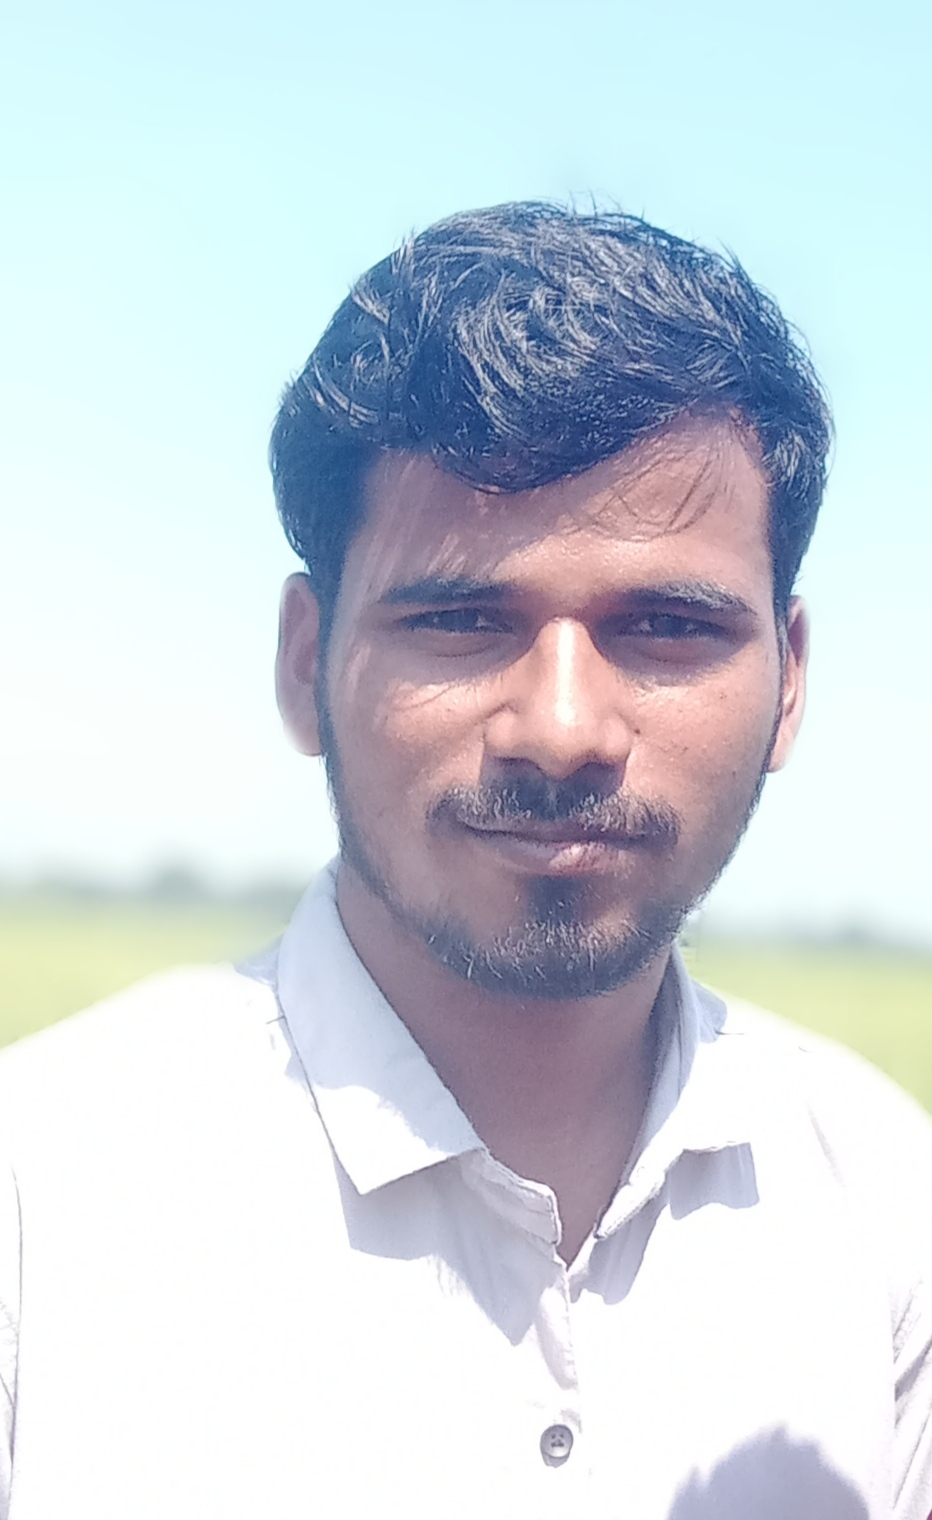
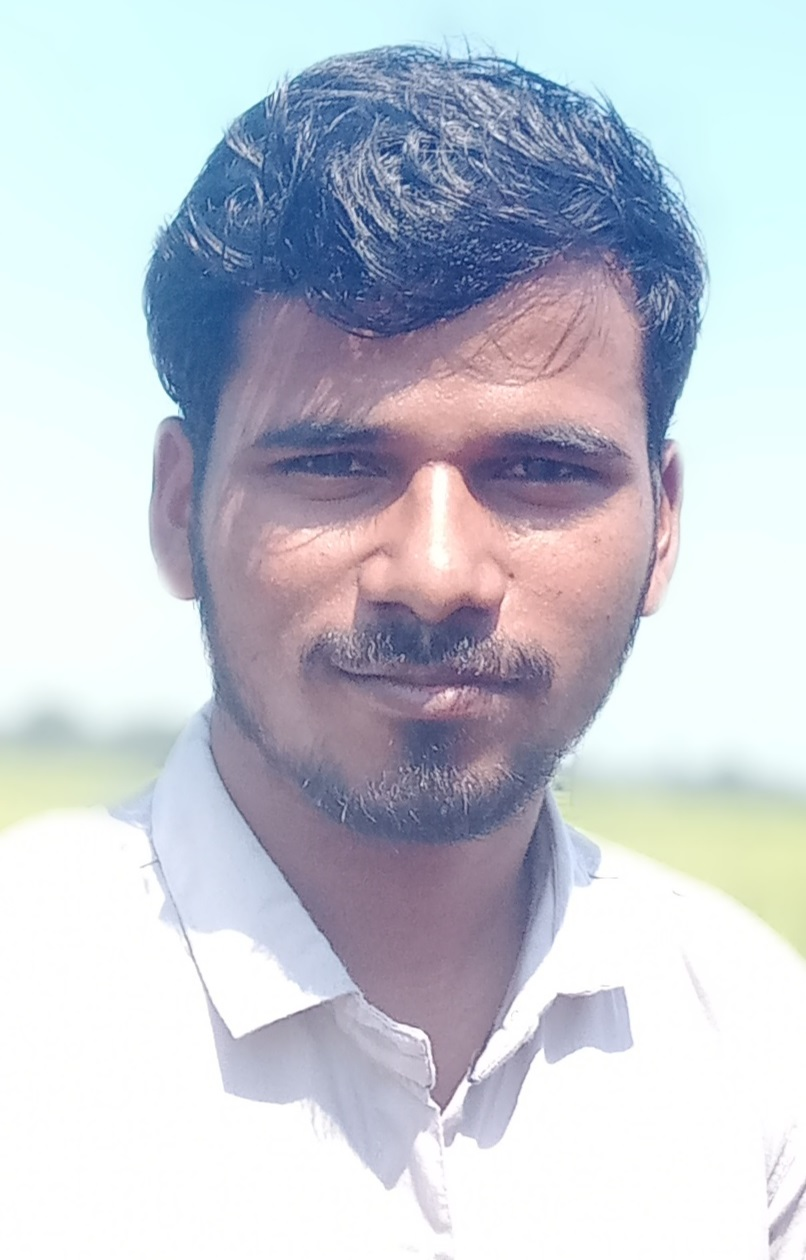
image fit

diff --git a/frontend/src/pages/Team.tsx b/frontend/src/pages/Team.tsx
@@ -100,8 +100,7 @@ export const Team = () => {
                   {/* Background element */}
                   <div className="absolute -top-10 -right-10 w-32 h-32 bg-orange-500/10 rounded-full blur-xl group-hover:bg-orange-500/20 transition-all duration-300"></div>
                   
-                  {/* Image with fallback - larger size */}
-                  {/* Updated image container with aspect-square */}
+                  {/* Image with fallback - fixed aspect ratio */}
                   <div className="w-48 h-48 mx-auto mb-6 relative transition-transform duration-500 group-hover:scale-105 aspect-square">
                     {member.imageUrl && !imageErrors[index] ? (
                       <div className="rounded-full overflow-hidden border-4 border-white shadow-lg w-full h-full">
@@ -117,9 +116,6 @@ export const Team = () => {
                         {member.name.split(' ').map(n => n[0]).join('')}
                       </div>
                     )}
-                    
-                    {/* ... hover effect ... */}
-                  </div>
                     
                     {/* Hover effect */}
                     <div className="absolute inset-0 bg-gradient-to-b from-transparent to-black/20 rounded-full opacity-0 group-hover:opacity-100 transition-opacity duration-300"></div>
